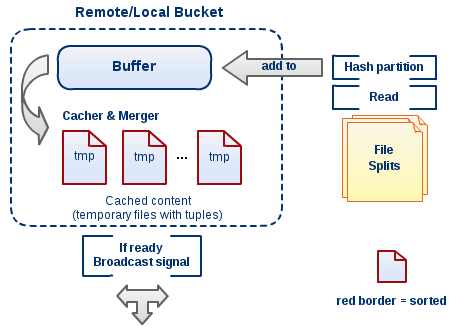
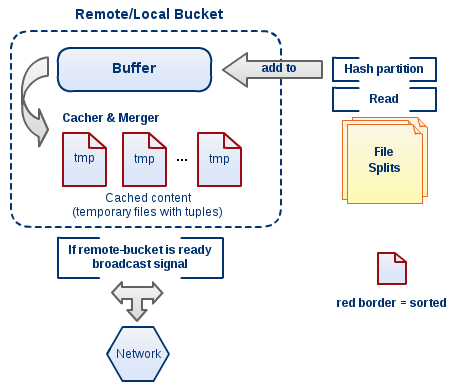
Diagrams added + some changes

Changed region(s): [[0.0, 0.0, 0.9532, 0.988], [0.0, 0.5988, 0.0298, 0.6587], [0.0, 0.509, 0.0298, 0.5689]]

diff --git a/chapter1/chapter1.tex b/chapter1/chapter1.tex
@@ -37,7 +37,7 @@ First, the data set (compressed or not) gets split in file partitions of almost 
 \begin{figure}
 \centering
 \includegraphics[scale=0.6]{diag1}
-\caption{Read and sort - remote & local buckets structure}
+\caption{Read and sort - remote \& local buckets structure}
 \end{figure}
 
 % 
@@ -107,14 +107,26 @@ Furthermore, we can improve the previous part by splitting the main buffer into 
 
 Now, that we split the buffer into two independent buffers we can further loosen-up the synchronization primitives between the read and transfer (\textit{add() and addAll() methods}), the only coarse synchronization point being the moment when both methods call \textit{cacheBuffer()} (both buffers might get full maybe at the same time).
 
-<Diagram-4>
+\begin{figure}
+\centering
+\includegraphics[scale=0.6]{diag4a}
+\linebreak
+\linebreak
+\centering
+\includegraphics[scale=0.6]{diag4b}
+\caption{New local/remote buckets}
+\end{figure}
 
 % 
 \subsubsection*{(3) In-background chunks' removal for writing the results in files}
 
 The last idea refers to the writing of the sorted local-bucket (all the triples) into the result file -- the result set. The way of doing that is to use the \textit{removeChunk()} method into the \textit{bucketIterator} class to fetch chunks from the local-bucket when there are no more triples to iterate on. An idea would be to hide the dead-time that the iterator has to wait for merging-up triples from the main memory (buffer) with the ones stored on the disk and to try instead to remove/get a chunk that has been already processed and stored in a set of auxiliary buffers in memory (triples ready to be written as results). For that, we start a separate thread at the right moment we set the bucket's flag on finished, which fills up auxiliary buffers with chunks from the main buffer. When a write is being performed (iterator is called), the chunk is taken directly from the auxiliary buffers instead of waiting for the whole merge. Moreover, when a buffer from the set gets emptied the thread will go on and try to refill it, if there are anymore elements for that -- this mechanism of storing buffers processed earlier is generally called 'Double-Buffering'.
 
-<Diagram-5>
+\begin{figure}
+\centering
+\includegraphics[scale=0.6]{diag5}
+\caption{In-background merge-up}
+\end{figure}
 
 % 
 \subsubsection{Results: execution-time \& profiling}
